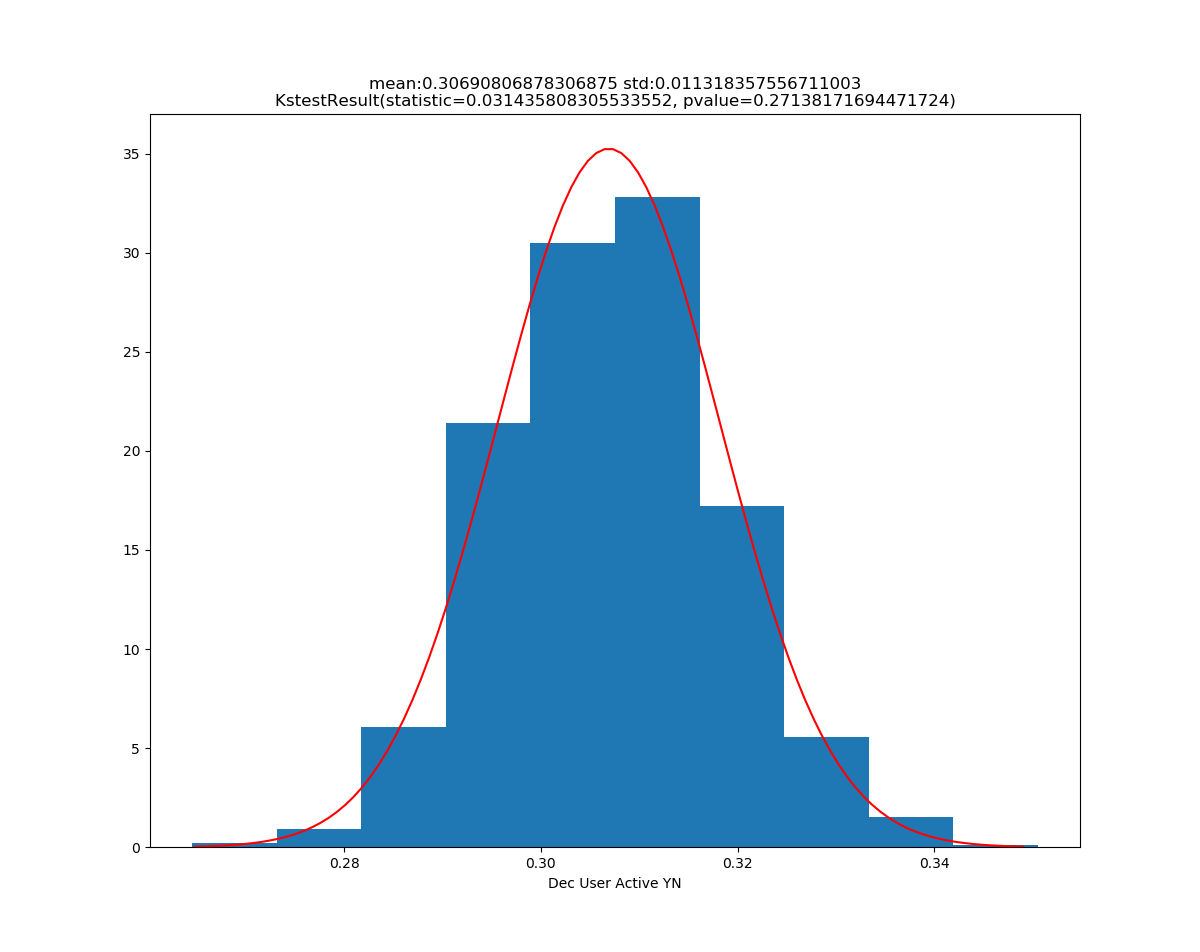
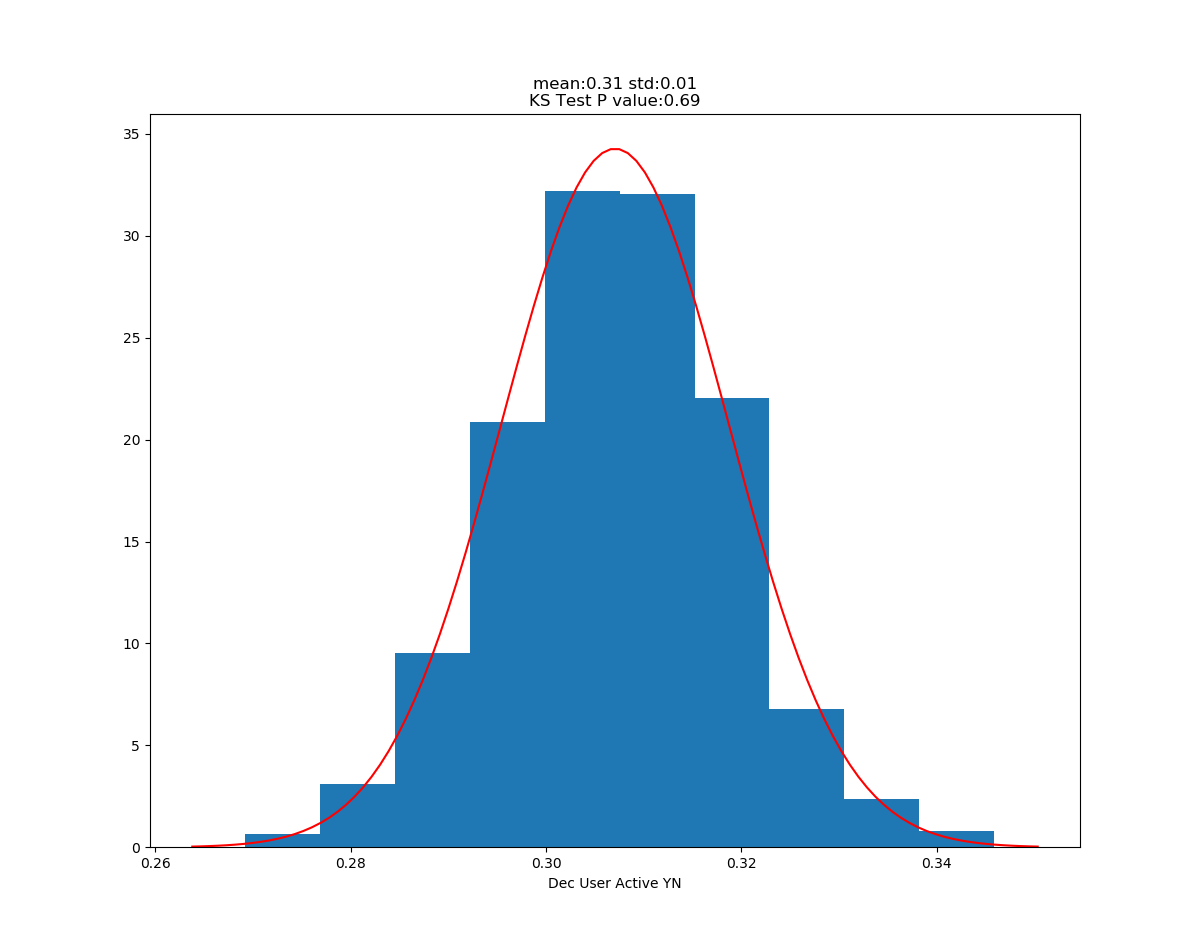
fix rounding

diff --git a/src/db_basic_data_stats.py b/src/db_basic_data_stats.py
@@ -63,13 +63,13 @@ def logistic_regression(df):
     modelCV = LogisticRegression()
     scoring = 'accuracy'
     results = model_selection.cross_val_score(modelCV, X_train, y_train, cv=kfold, scoring=scoring)
-    print(f"10-fold cross validation average accuracy: {results.mean()}")
+    print(f"10-fold cross validation average accuracy: {results.mean():.2f}")
     scoring = 'recall'
     results = model_selection.cross_val_score(modelCV, X_train, y_train, cv=kfold, scoring=scoring)
-    print(f"10-fold cross validation average recall: {results.mean()}")
+    print(f"10-fold cross validation average recall: {results.mean():.2f}")
     scoring = 'precision'
     results = model_selection.cross_val_score(modelCV, X_train, y_train, cv=kfold, scoring=scoring)
-    print(f"10-fold cross validation average precision: {results.mean()}")
+    print(f"10-fold cross validation average precision: {results.mean():.2f}")
     print(classification_report(y_test, y_pred))
 
     print_roc_curve(y_test, logreg, X_test)
@@ -109,19 +109,16 @@ def logistic_balanced(df):
     modelCV = LogisticRegression()
     scoring = 'accuracy'
     results = model_selection.cross_val_score(modelCV, X_train, y_train, cv=kfold, scoring=scoring)
-    print(f"10-fold cross validation average accuracy: {results.mean()}")
+    print(f"10-fold cross validation average accuracy: {results.mean():.2f}")
     scoring = 'recall'
     results = model_selection.cross_val_score(modelCV, X_train, y_train, cv=kfold, scoring=scoring)
-    print(f"10-fold cross validation average recall: {results.mean()}")
+    print(f"10-fold cross validation average recall: {results.mean():.2f}")
     scoring = 'precision'
     results = model_selection.cross_val_score(modelCV, X_train, y_train, cv=kfold, scoring=scoring)
-    print(f"10-fold cross validation average precision: {results.mean()}")
+    print(f"10-fold cross validation average precision: {results.mean():.2f}")
     print(classification_report(y_test, y_pred))
 
-    plt.scatter(logreg.predict_proba(X_test)[:,1], y_test)
-    plt.ylabel("Actual")
-    plt.xlabel("Predicted")
-    plt.show()
+    print_roc_curve(y_test, logreg, X_test)
 
 def print_roc_curve(y_test, logreg, X_test):
     logit_roc_auc = roc_auc_score(y_test, logreg.predict(X_test))
@@ -133,6 +130,7 @@ def print_roc_curve(y_test, logreg, X_test):
     plt.ylim([0.0, 1.05])
     plt.xlabel('False Positive Rate')
     plt.ylabel('True Positive Rate')
+    plt.title('Receiver operating characteristic')
     plt.legend(loc="lower right")
     plt.savefig('Log_ROC')
     plt.show()
@@ -512,8 +510,8 @@ def dec_vs_other_months(hypothesis_df):
 
     #dec sample for H on user_active_score
     print("Running ttest on user_active score for Dec vs all other months")
-    print(f"Dec Average: {dec_active['user_activity_score'].mean()}")
-    print(f'Other Average: {other_active["user_activity_score"].mean()}')
+    print(f"Dec Average: {dec_active['user_activity_score'].mean():.2f}")
+    print(f'Other Average: {other_active["user_activity_score"].mean():.2f}')
     hypothesis_df_Dec_sample = dec_active.sample(len(other_active.index))
     user_active_score_ttest = stats.ttest_ind(hypothesis_df_Dec_sample['user_activity_score'], other_active['user_activity_score'])
     print(user_active_score_ttest)
@@ -521,8 +519,8 @@ def dec_vs_other_months(hypothesis_df):
 
     #dec sample for H on user activity yn
     print("Running ttest on user active yn for Dec vs all other months")
-    print(f"Dec Average: {hypothesis_df_Dec['user_active_yn'].mean()}")
-    print(f'Other Average: {hypothesis_df_not_Dec["user_active_yn"].mean()}')
+    print(f"Dec Average: {hypothesis_df_Dec['user_active_yn'].mean():.2f}")
+    print(f'Other Average: {hypothesis_df_not_Dec["user_active_yn"].mean():.2f}')
     hypothesis_df_Dec_sample = hypothesis_df_Dec.sample(len(hypothesis_df_not_Dec.index))
     user_active_ttest = stats.ttest_ind(hypothesis_df_Dec_sample['user_active_yn'], hypothesis_df_not_Dec['user_active_yn'])
     print(user_active_ttest)
@@ -631,7 +629,7 @@ def plot_histogram_with_normal(data, name):
     ax.hist(data, normed=True)
     normal = stats.norm.pdf(x_range, data.mean(), data.std())
     normal_line =ax.plot(x_range, normal, label='normal pmf', color='r')
-    ax.set_title(f"\nmean:{data.mean()} std:{data.std()}\n{stats.kstest(data, 'norm',args=[data.mean(), data.std()])}")
+    ax.set_title(f"\nmean:{data.mean():.2f} std:{data.std():.2f}\nKS Test P value:{stats.kstest(data, 'norm',args=[data.mean(), data.std()])[1]:.2f}")
     ax.set_xlabel(name)
     plt.show()
 
@@ -753,10 +751,10 @@ user_profile_df['estimated_created_date'] = user_profile_df['estimated_created_d
 
 
 #logistic_regression(user_profile_df)
-logistic_balanced(user_profile_df)
+#logistic_balanced(user_profile_df)
 #linear_regression(user_profile_df.loc[user_profile_df['user_active_yn']==1])
 
-#dec_vs_other_months(user_profile_df[['user_id','user_active_yn','user_activity_score', 'user_activity_cnt', 'days_active', 'days_inactive', 'estimated_created_date']])
+dec_vs_other_months(user_profile_df[['user_id','user_active_yn','user_activity_score', 'user_activity_cnt', 'days_active', 'days_inactive', 'estimated_created_date']])
 
 
 # plt.scatter(counts_df['entry_chosen_datetime_cnt'], counts_df['entry_id_cnt'])
